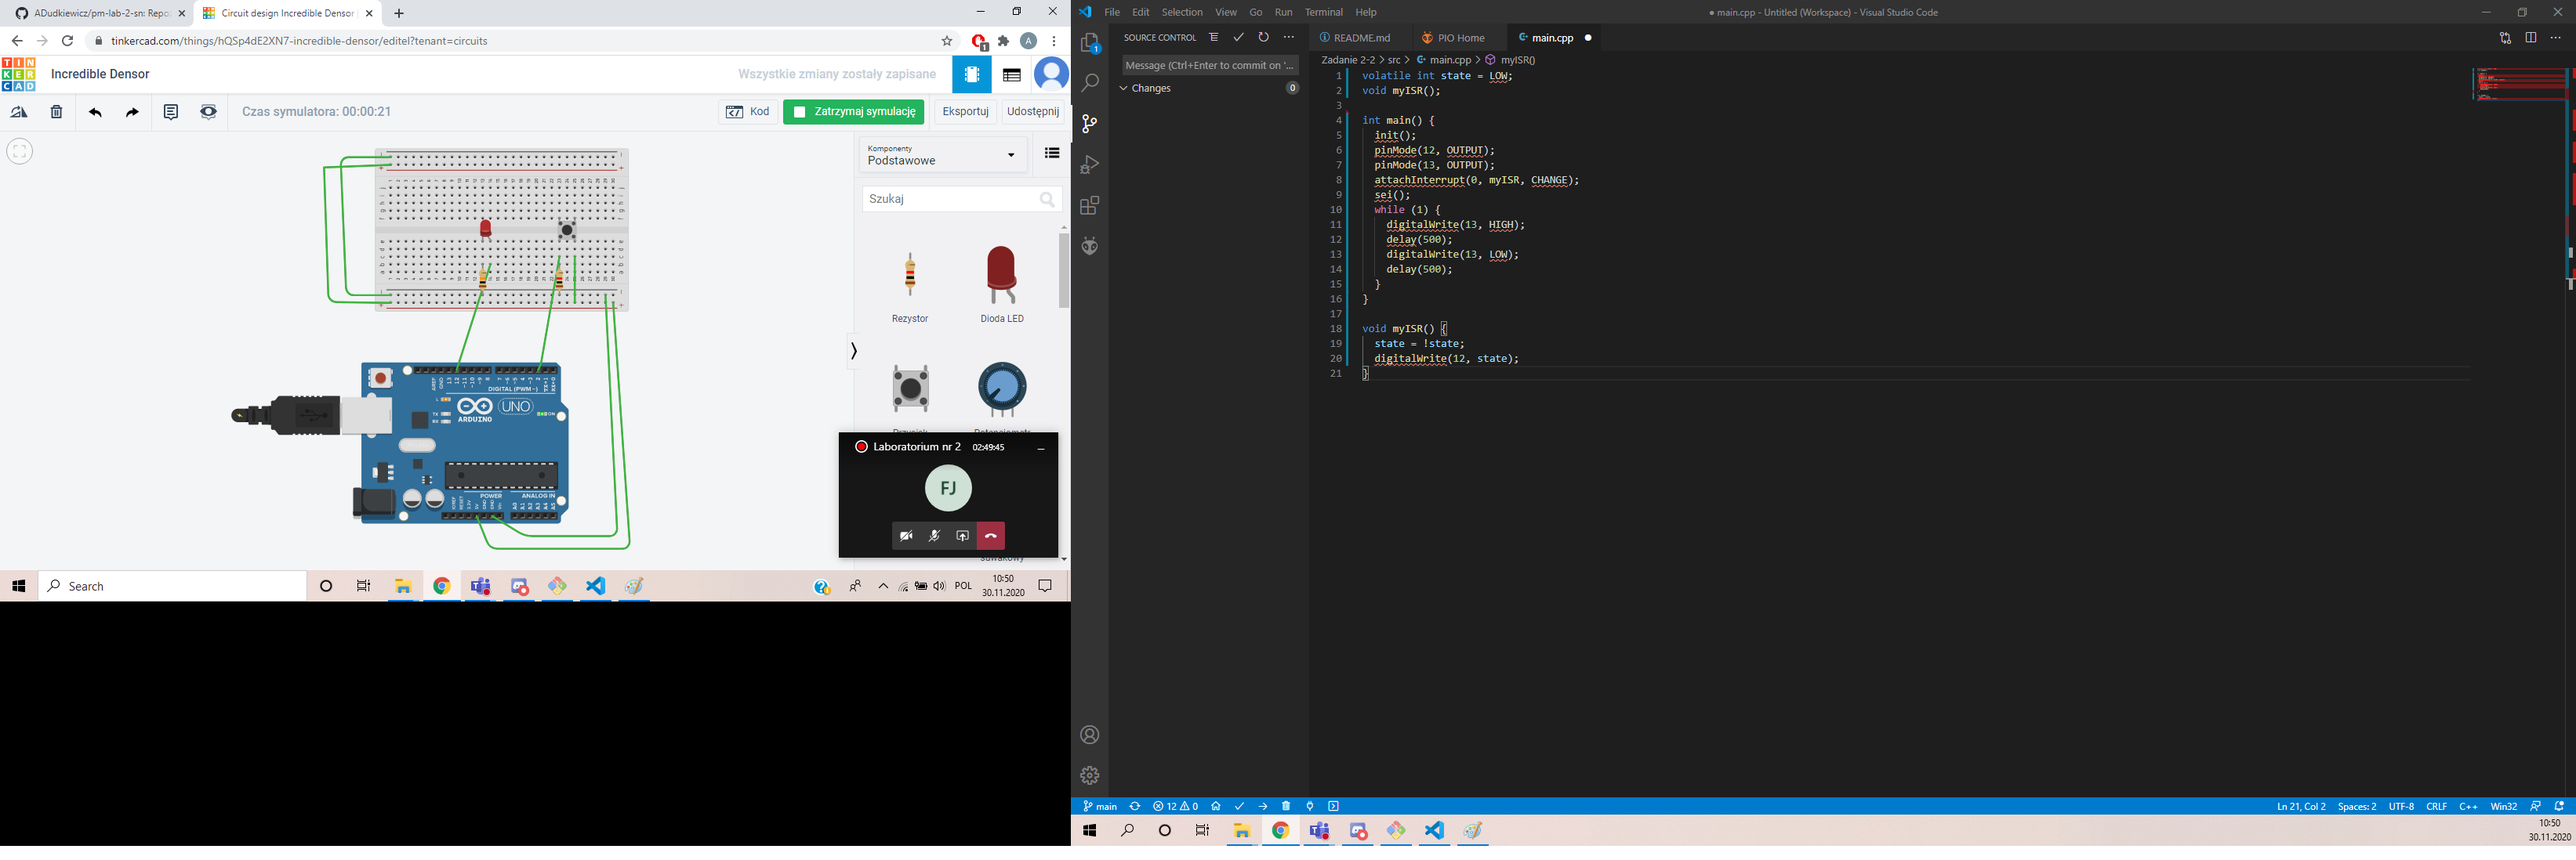
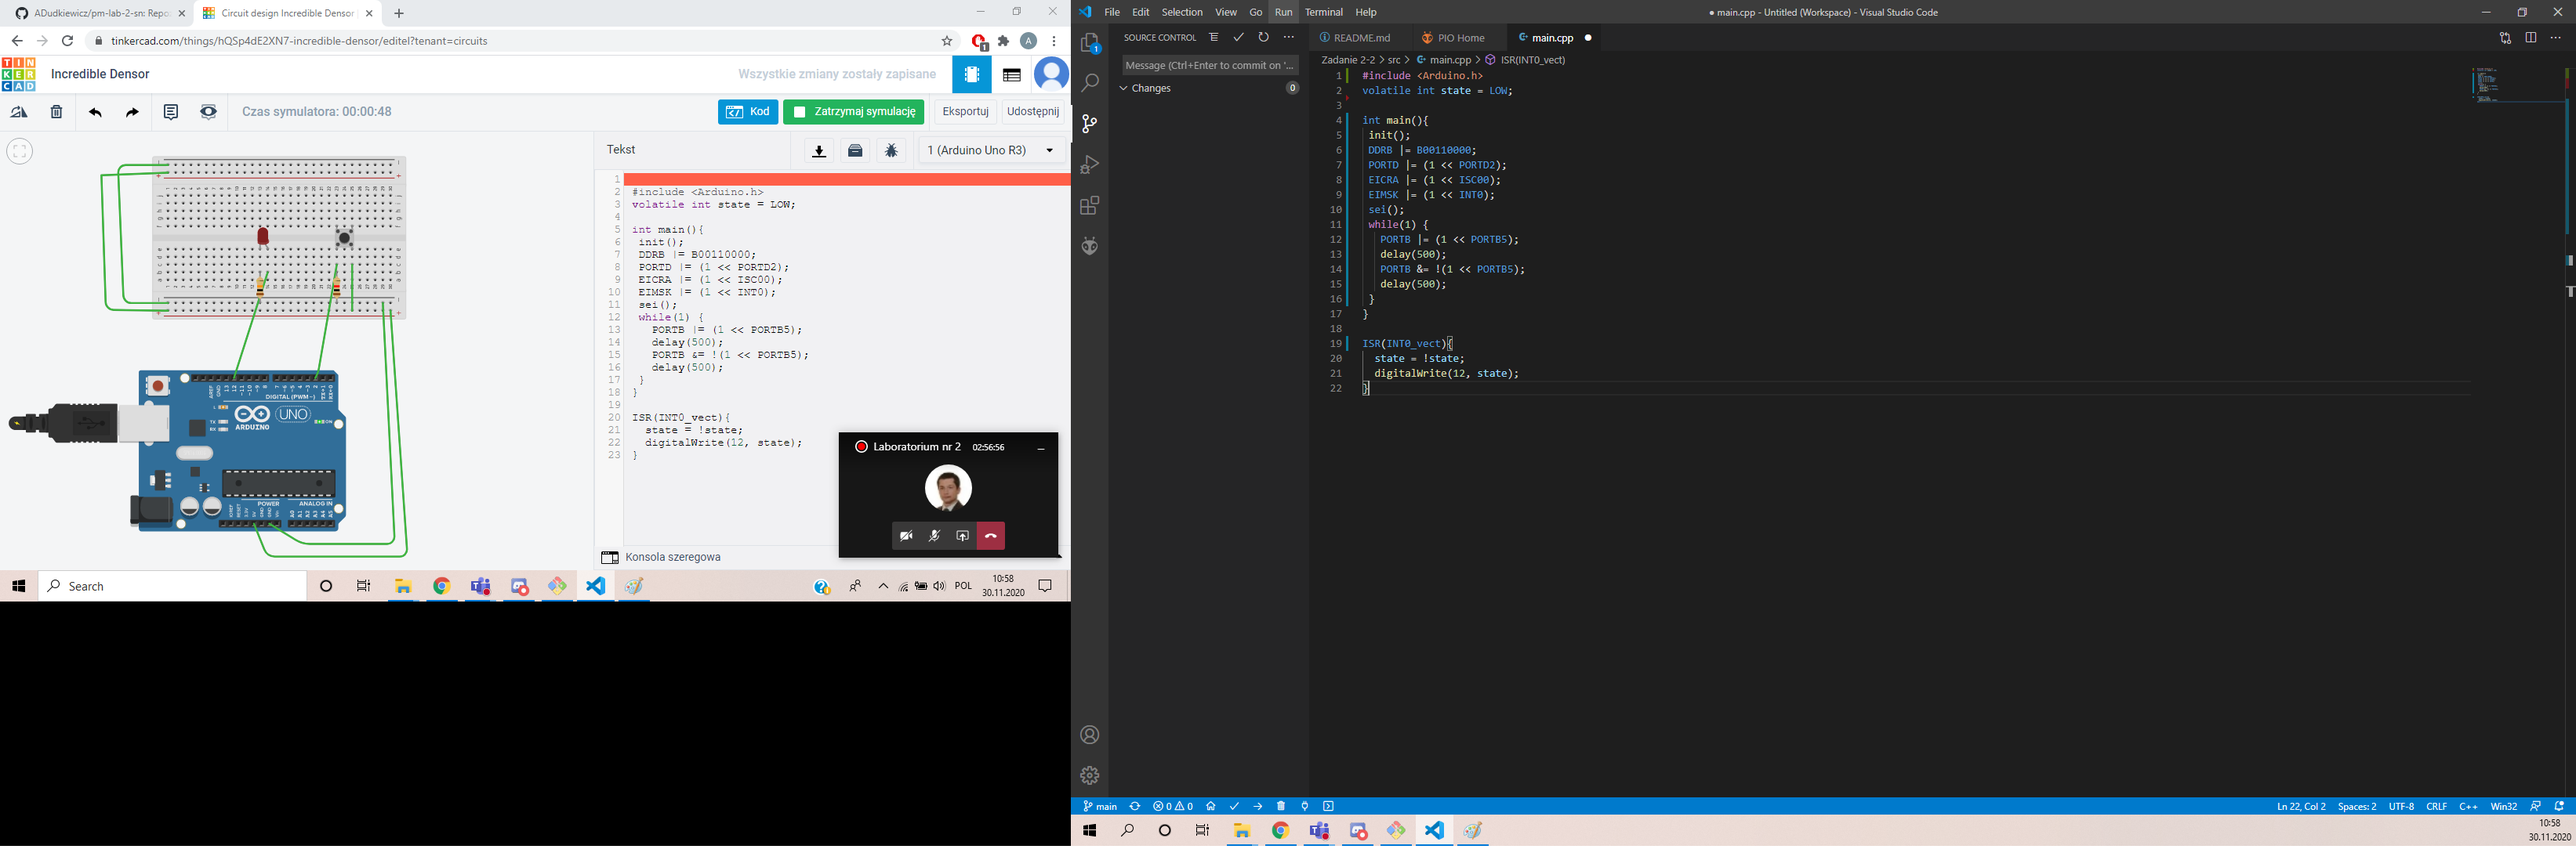
Wykonano zadanie 2.3.2- register IRQ

diff --git a/Zadanie 2-2/src/main.cpp b/Zadanie 2-2/src/main.cpp
@@ -1,21 +1,22 @@
+#include <Arduino.h>
 volatile int state = LOW;
-void myISR();
 
-int main() {
-  init();
-  pinMode(12, OUTPUT);
-  pinMode(13, OUTPUT);
-  attachInterrupt(0, myISR, CHANGE);
-  sei();
-  while (1) {
-    digitalWrite(13, HIGH);
-    delay(500);
-    digitalWrite(13, LOW);
-    delay(500);
-  }
+int main(){
+ init();
+ DDRB |= B00110000;
+ PORTD |= (1 << PORTD2);
+ EICRA |= (1 << ISC00);
+ EIMSK |= (1 << INT0);
+ sei();
+ while(1) {
+   PORTB |= (1 << PORTB5);
+   delay(500);
+   PORTB &= !(1 << PORTB5);
+   delay(500);
+ }
 }
 
-void myISR() {
+ISR(INT0_vect){
   state = !state;
   digitalWrite(12, state);
 }
